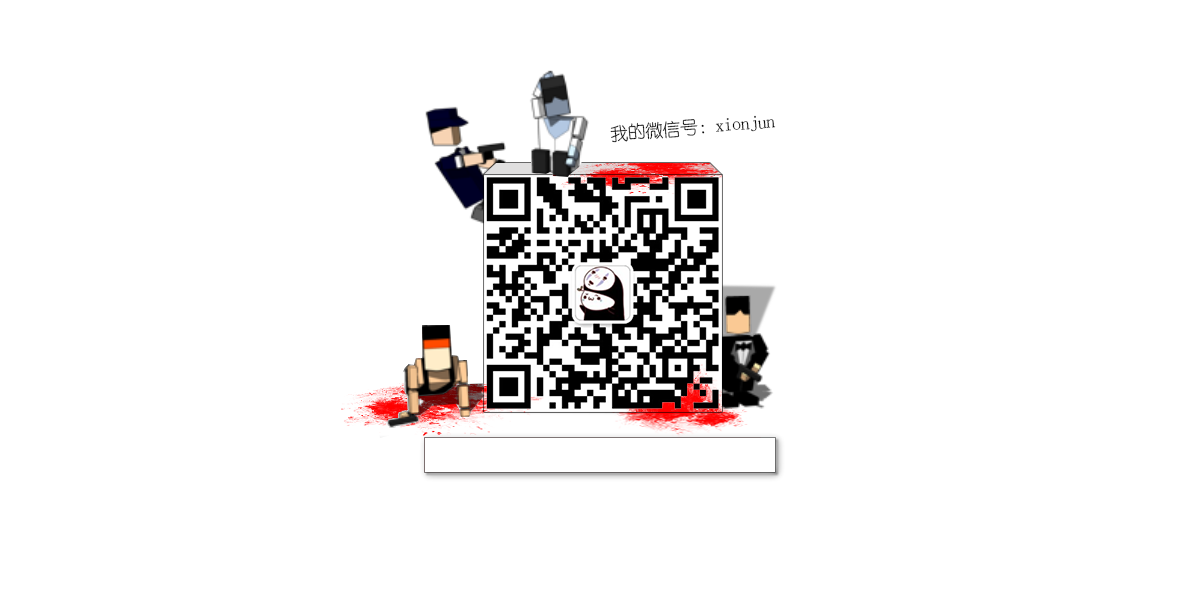
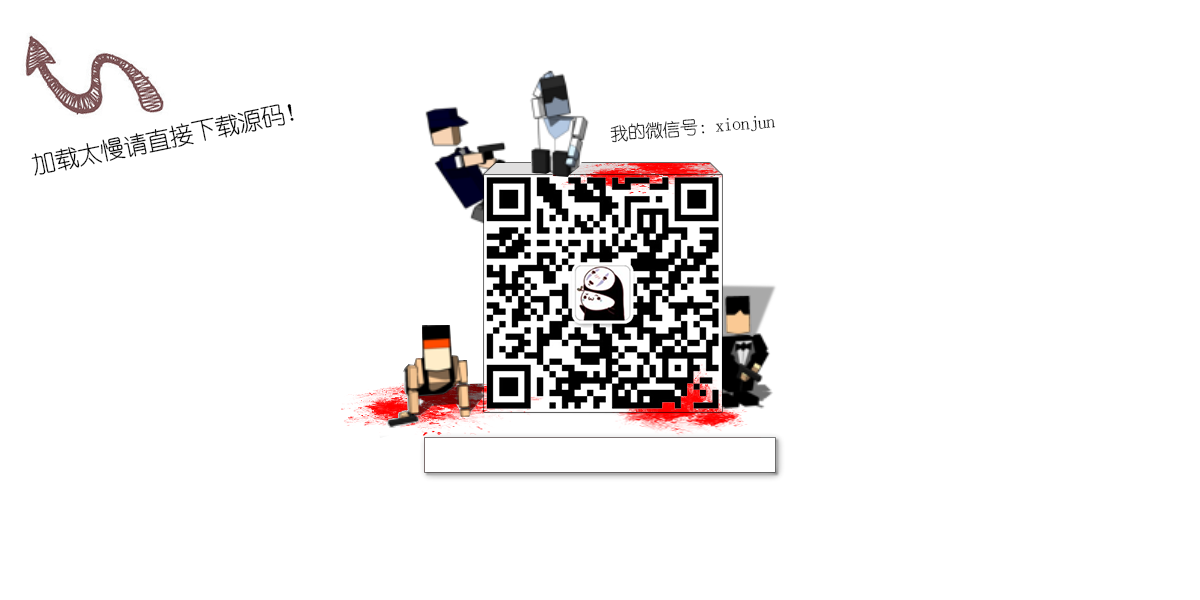
僵尸游戏展示

Changed region(s): [[0.0, 0.06, 0.1542, 0.21], [0.0308, 0.18, 0.2467, 0.3]]

diff --git a/index.html b/index.html
@@ -1,1 +1,1 @@
-<!DOCTYPE html><html lang="en"><head><meta charset="UTF-8"><meta name="viewport" content="width=device-width,initial-scale=1"><meta http-equiv="X-UA-Compatible" content="ie=edge"><title>Document</title><style>body{background-color:#000}*{margin:0;padding:0}canvas{display:block;border:1px solid #000;position:absolute;top:50%;margin-top:-300px;left:50%;margin-left:-600px}</style></head><body><p><a href="http://www.baidu.com" target="_black" style="color:red">源码下载地址</a></p><canvas id="bgCvs" width="1200" height="600"></canvas><canvas id="bloodCvs" width="1200" height="600"></canvas><canvas id="dieZombieCvs" width="1200" height="600"></canvas><canvas id="roleCvs" width="1200" height="600"></canvas><canvas id="bulletCvs" width="1200" height="600"></canvas><canvas id="zombieCvs" width="1200" height="600"></canvas><canvas id="gamePropCvs" width="1200" height="600"></canvas><canvas id="obstacleCvs" width="1200" height="600"></canvas><canvas id="buterCvs" width="1200" height="600"></canvas><canvas id="gasCvs" width="1200" height="600"></canvas><canvas id="mineCvs" width="1200" height="600"></canvas><canvas id="mineEffectCvs" width="1200" height="600"></canvas><canvas id="pauseGameCvs" width="1200" height="600"></canvas><canvas id="gameScoreCvs" width="1200" height="600"></canvas><canvas id="checkGameCvs" width="1200" height="600"></canvas><canvas id="playGameCvs" width="1200" height="600"></canvas><canvas id="gameOverCvs" width="1200" height="600"></canvas><canvas id="gameloadingCvs" width="1200" height="600"></canvas></body><script src="./js/lib.js"></script></html>
+<!DOCTYPE html><html lang="en"><head><meta charset="UTF-8"><meta name="viewport" content="width=device-width,initial-scale=1"><meta http-equiv="X-UA-Compatible" content="ie=edge"><title>Document</title><style>body{background-color:#000}*{margin:0;padding:0}canvas{display:block;border:1px solid #000;position:absolute;top:50%;margin-top:-300px;left:50%;margin-left:-600px}</style></head><body><p><a href="https://github.com/lxjsoilor/zombie" target="_black" style="color:red">源码下载地址</a></p><canvas id="bgCvs" width="1200" height="600"></canvas><canvas id="bloodCvs" width="1200" height="600"></canvas><canvas id="dieZombieCvs" width="1200" height="600"></canvas><canvas id="roleCvs" width="1200" height="600"></canvas><canvas id="bulletCvs" width="1200" height="600"></canvas><canvas id="zombieCvs" width="1200" height="600"></canvas><canvas id="gamePropCvs" width="1200" height="600"></canvas><canvas id="obstacleCvs" width="1200" height="600"></canvas><canvas id="buterCvs" width="1200" height="600"></canvas><canvas id="gasCvs" width="1200" height="600"></canvas><canvas id="mineCvs" width="1200" height="600"></canvas><canvas id="mineEffectCvs" width="1200" height="600"></canvas><canvas id="pauseGameCvs" width="1200" height="600"></canvas><canvas id="gameScoreCvs" width="1200" height="600"></canvas><canvas id="checkGameCvs" width="1200" height="600"></canvas><canvas id="playGameCvs" width="1200" height="600"></canvas><canvas id="gameOverCvs" width="1200" height="600"></canvas><canvas id="gameloadingCvs" width="1200" height="600"></canvas></body><script src="./js/lib.js"></script></html>
